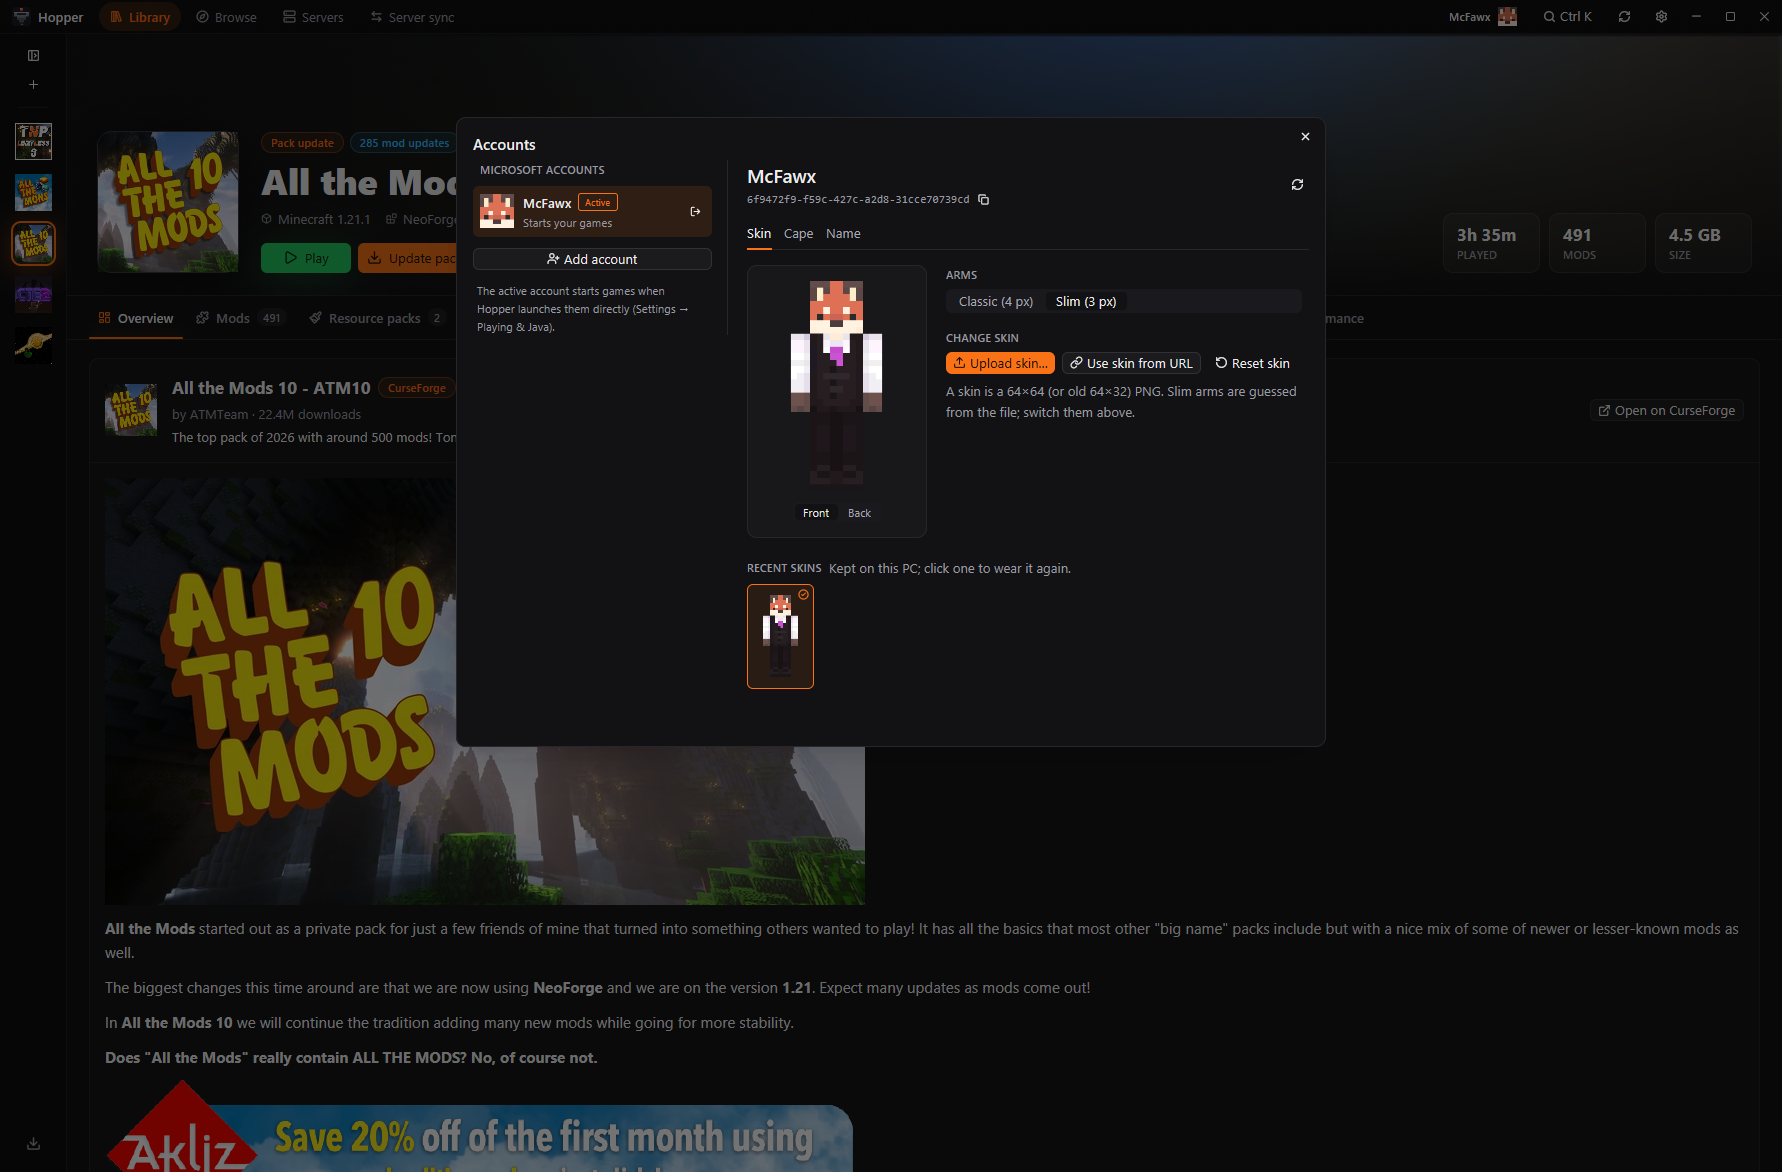
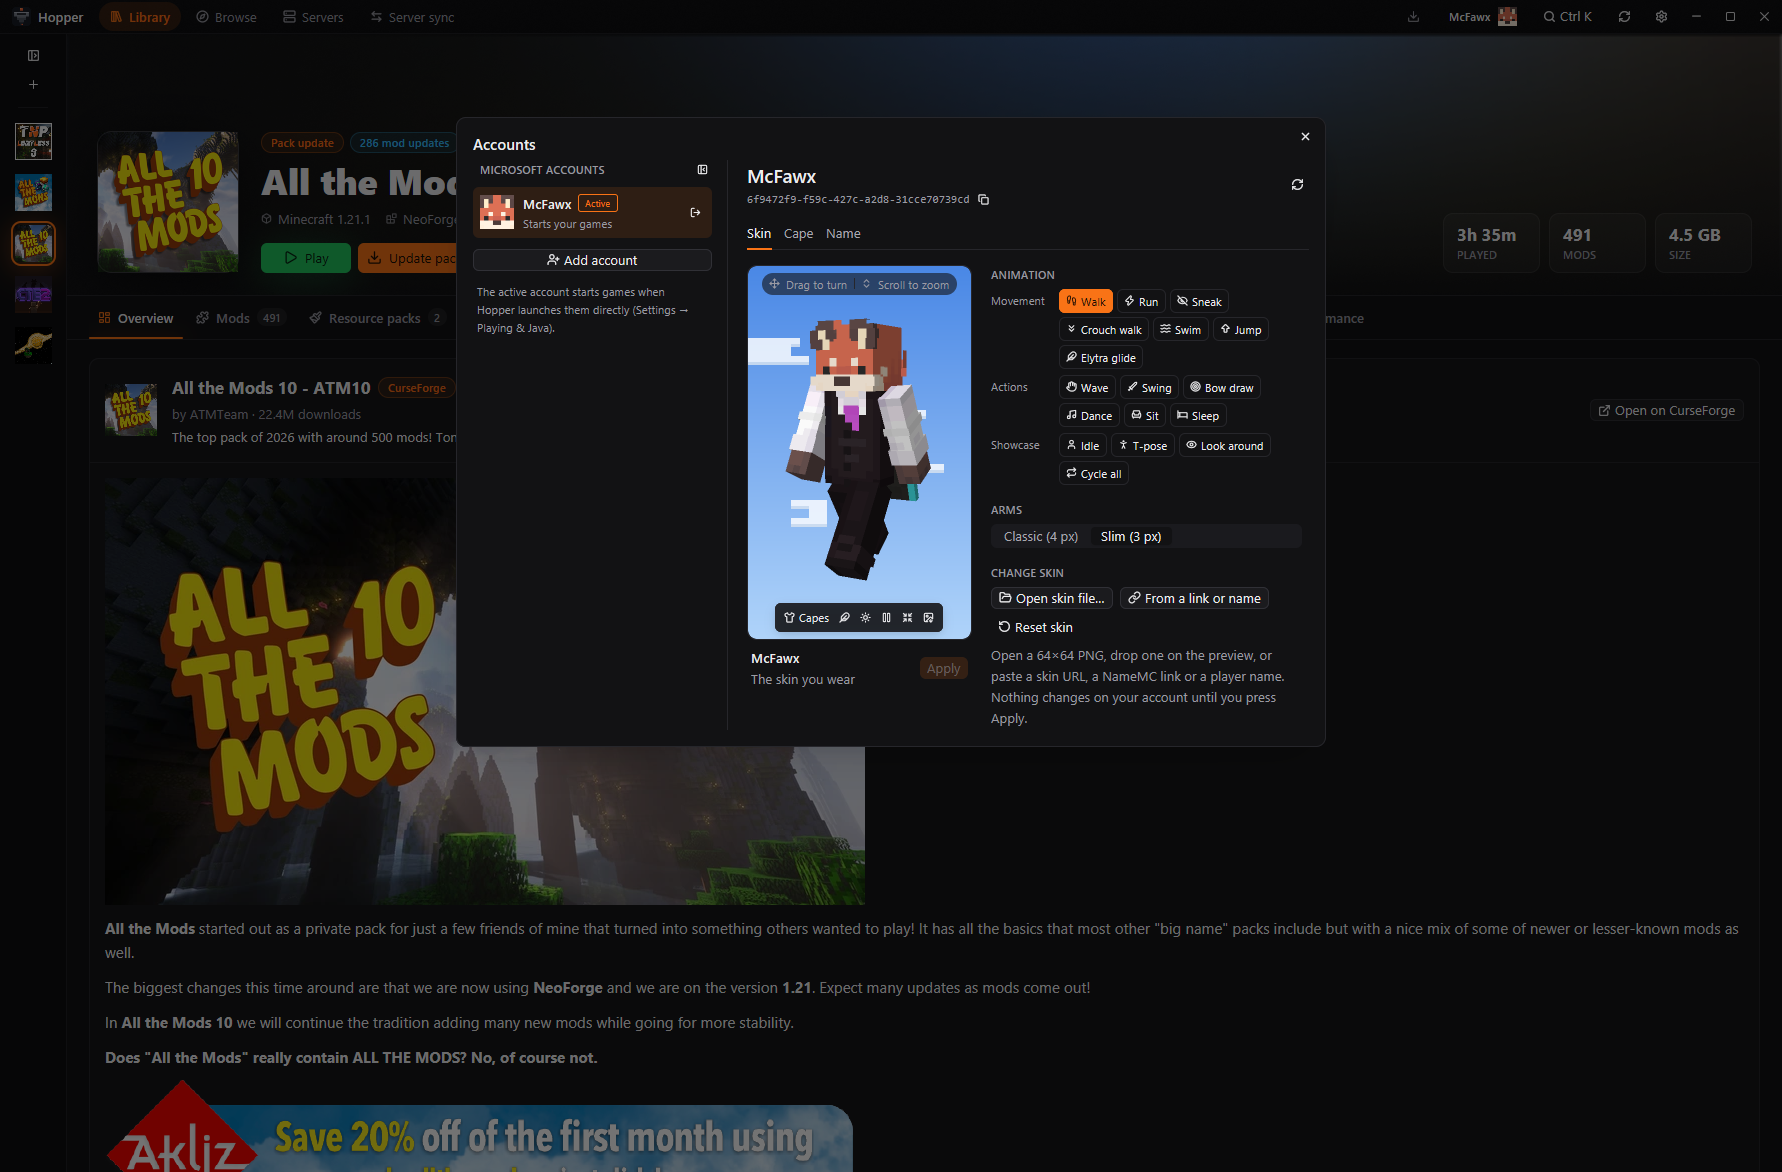
Website and README: screenshots of changelogs, Added by me and the 3D skin preview

diff --git a/docs/index.html b/docs/index.html
@@ -105,7 +105,7 @@ h2{font-size:clamp(28px,4vw,42px);line-height:1.12;letter-spacing:-.025em;font-w
 .frame img{border-radius:13px;width:100%;height:auto}
 
 /* gallery */
-.gallery{display:grid;grid-template-columns:repeat(3,1fr);gap:14px}
+.gallery{display:grid;grid-template-columns:repeat(2,1fr);gap:14px}
 .gallery figure{background:var(--panel);border:1px solid var(--line);border-radius:var(--r);overflow:hidden;cursor:zoom-in;transition:border-color .2s,transform .2s}
 .gallery figure:hover{border-color:#f9731655;transform:translateY(-2px)}
 .gallery img{aspect-ratio:16/10;object-fit:cover;object-position:top left;width:100%}
@@ -266,7 +266,7 @@ footer a:hover{color:var(--fg)}
     <div class="card rv"><div class="ico"><svg viewBox="0 0 24 24" fill="none" stroke="currentColor" stroke-width="2" stroke-linecap="round" stroke-linejoin="round"><rect x="3" y="4" width="18" height="7" rx="1.5"/><rect x="3" y="13" width="18" height="7" rx="1.5"/><path d="M7 7.5h.01M7 16.5h.01"/></svg></div><h3>Servers</h3><p>Start, stop and watch servers through Crafty, MCSS or Pterodactyl, or host one on this PC with Java picked for you.</p></div>
     <div class="card rv"><div class="ico"><svg viewBox="0 0 24 24" fill="none" stroke="currentColor" stroke-width="2" stroke-linecap="round" stroke-linejoin="round"><path d="M4 7h13l-3-3M20 17H7l3 3"/></svg></div><h3>Server sync</h3><p>Compare a server with its pack and push or pull mods and configs. Client-only mods stay off. Backups and undo included.</p></div>
     <div class="card rv"><div class="ico"><svg viewBox="0 0 24 24" fill="none" stroke="currentColor" stroke-width="2" stroke-linecap="round" stroke-linejoin="round"><rect x="3" y="3" width="7" height="7" rx="1.5"/><rect x="14" y="3" width="7" height="7" rx="1.5"/><rect x="3" y="14" width="7" height="7" rx="1.5"/><rect x="14" y="14" width="7" height="7" rx="1.5"/></svg></div><h3>Other launchers</h3><p>Manage Modrinth App, Prism / MultiMC, ATLauncher, GDLauncher and FTB App instances where they already are.</p></div>
-    <div class="card rv"><div class="ico"><svg viewBox="0 0 24 24" fill="none" stroke="currentColor" stroke-width="2" stroke-linecap="round" stroke-linejoin="round"><circle cx="12" cy="8" r="4"/><path d="M4 21c1.5-4 4.5-6 8-6s6.5 2 8 6"/></svg></div><h3>Accounts</h3><p>Several Microsoft accounts. Change your skin from a file, a URL or your recent skins, plus your cape and name.</p></div>
+    <div class="card rv"><div class="ico"><svg viewBox="0 0 24 24" fill="none" stroke="currentColor" stroke-width="2" stroke-linecap="round" stroke-linejoin="round"><circle cx="12" cy="8" r="4"/><path d="M4 21c1.5-4 4.5-6 8-6s6.5 2 8 6"/></svg></div><h3>Accounts</h3><p>Several Microsoft accounts. Try skins on a 3D model that walks, runs, swims and dances, then change your skin, cape and name.</p></div>
     <div class="card rv"><div class="ico"><svg viewBox="0 0 24 24" fill="none" stroke="currentColor" stroke-width="2" stroke-linecap="round" stroke-linejoin="round"><circle cx="6" cy="12" r="2.5"/><circle cx="18" cy="6" r="2.5"/><circle cx="18" cy="18" r="2.5"/><path d="m8.2 10.8 7.6-3.6M8.2 13.2l7.6 3.6"/></svg></div><h3>Peers</h3><p>Sync an instance with a friend's PC on your network, so everyone joins with the same mods.</p></div>
   </div>
 </section>
@@ -275,15 +275,16 @@ footer a:hover{color:var(--fg)}
   <div class="txt rv">
     <div class="eyebrow">Mods</div>
     <h2>Hundreds of updates, one click</h2>
-    <p class="sub">See every mod with its file, author, side and the version it moves to.</p>
+    <p class="sub">See every mod with its file, author, side and the version it moves to, and read what changed before you update.</p>
     <ul>
       <li>Updates shown old → new, with "Update all"</li>
+      <li>Every changelog since your version in one window, with "Update to this" or "Install this version"</li>
+      <li>"Added by me" shows the mods you added to the pack, and pack updates keep them</li>
       <li>Profiles to switch sets of mods on and off</li>
-      <li>Mods you added yourself are kept apart from the pack's</li>
       <li>Files CurseForge only lets you get in a browser are picked up from Downloads automatically</li>
     </ul>
   </div>
-  <div class="frame rv"><img src="screenshots/mods.png" width="1782" height="1172" alt="Mods tab with update arrows from old to new versions" loading="lazy"></div>
+  <div class="frame rv"><img src="screenshots/changelogs.png" width="1782" height="1172" alt="Versions and changelogs for a mod three versions behind, over the mod list" loading="lazy"></div>
 </div>
 
 <div class="spot flip" id="servers">
@@ -384,9 +385,10 @@ cargo run --bin hopper</pre></div>
     <h2>A closer look</h2>
   </div>
   <div class="gallery">
+    <figure class="rv"><img src="screenshots/added-by-me.png" alt="Mods tab filtered to the mods added by the player, with duplicate and missing-dependency warnings" loading="lazy"><figcaption><b>Added by me</b>: your own mods, plus warnings for duplicates and missing dependencies</figcaption></figure>
+    <figure class="rv"><img src="screenshots/accounts.png" alt="Accounts dialog with an animated 3D skin preview" loading="lazy"><figcaption><b>3D skins</b>: walk, run, swim or dance before you apply</figcaption></figure>
     <figure class="rv"><img src="screenshots/palette.png" alt="Ctrl+K command palette" loading="lazy"><figcaption><b>Ctrl+K</b> jumps to any instance, tab, server or mod</figcaption></figure>
     <figure class="rv"><img src="screenshots/browse.png" alt="Browsing CurseForge modpacks" loading="lazy"><figcaption><b>Browse</b> CurseForge and Modrinth</figcaption></figure>
-    <figure class="rv"><img src="screenshots/accounts.png" alt="Accounts dialog with skin editor" loading="lazy"><figcaption><b>Accounts</b>: skin, cape and name</figcaption></figure>
   </div>
 </section>
 

diff --git a/README.md b/README.md
@@ -26,7 +26,7 @@ In the open: most of Hopper's code is written with help from AI, Anthropic's Cla
 - **Hosting**: run servers on your own PC: from a pack's official server pack or the instance's mods, with Java picked or downloaded for you, a server.properties editor, JVM presets, daily restarts with warnings and crash recovery. A backup mod's backups (SimpleBackups, FTB Backups, Advanced Backups…) are listed and restorable.
 - **Server sync**: compare a server with its pack and push or pull mods and configs, with backups and undo.
 - **Logs & crashes**: the game's live log, debug.log and crash reports, with search, an errors-only filter and mclo.gs sharing. Crash help checks the pack for [Crash Assistant](https://modrinth.com/mod/crash-assistant), KostromDan's mod that explains crashes in game, and installs it in one click.
-- **Accounts**: several Microsoft accounts; change your skin (upload, URL, recent skins), cape and name.
+- **Accounts**: several Microsoft accounts; try skins on an animated 3D model (walk, run, swim, dance and more), then change your skin (file, link or player name), cape and name.
 - **Ctrl+K**: jump to any instance, tab, server or mod, or run an action.
 - **Ctrl+,**: Settings, with a search over every setting (Ctrl+F there too).
 - **Peers**: sync an instance with a friend's PC on your network.
@@ -36,10 +36,12 @@ In the open: most of Hopper's code is written with help from AI, Anthropic's Cla
 
 | | |
 |---|---|
-| ![Mods, with updates shown old → new](docs/screenshots/mods.png) | ![Ctrl+K command palette](docs/screenshots/palette.png) |
-| Mods, with updates shown old → new | Ctrl+K: jump anywhere or run an action |
-| ![Browse](docs/screenshots/browse.png) | ![Accounts: skin, cape and name](docs/screenshots/accounts.png) |
-| Browse CurseForge and Modrinth | Accounts: skin, cape and name |
+| ![Mods, with updates shown old → new](docs/screenshots/mods.png) | ![Versions and changelogs](docs/screenshots/changelogs.png) |
+| Mods, with updates shown old → new | Every changelog since your version |
+| ![Added by me](docs/screenshots/added-by-me.png) | ![3D skin preview](docs/screenshots/accounts.png) |
+| Added by me: the mods you added, plus duplicate and missing-dependency warnings | Accounts: an animated 3D skin preview |
+| ![Browse](docs/screenshots/browse.png) | ![Ctrl+K command palette](docs/screenshots/palette.png) |
+| Browse CurseForge and Modrinth | Ctrl+K: jump anywhere or run an action |
 | ![A running server through Crafty](docs/screenshots/servers.png) | ![Server sync](docs/screenshots/sync.png) |
 | A running server through its panel | Server sync: a server against its pack |
 | ![Logs & crashes](docs/screenshots/logs.png) | |
